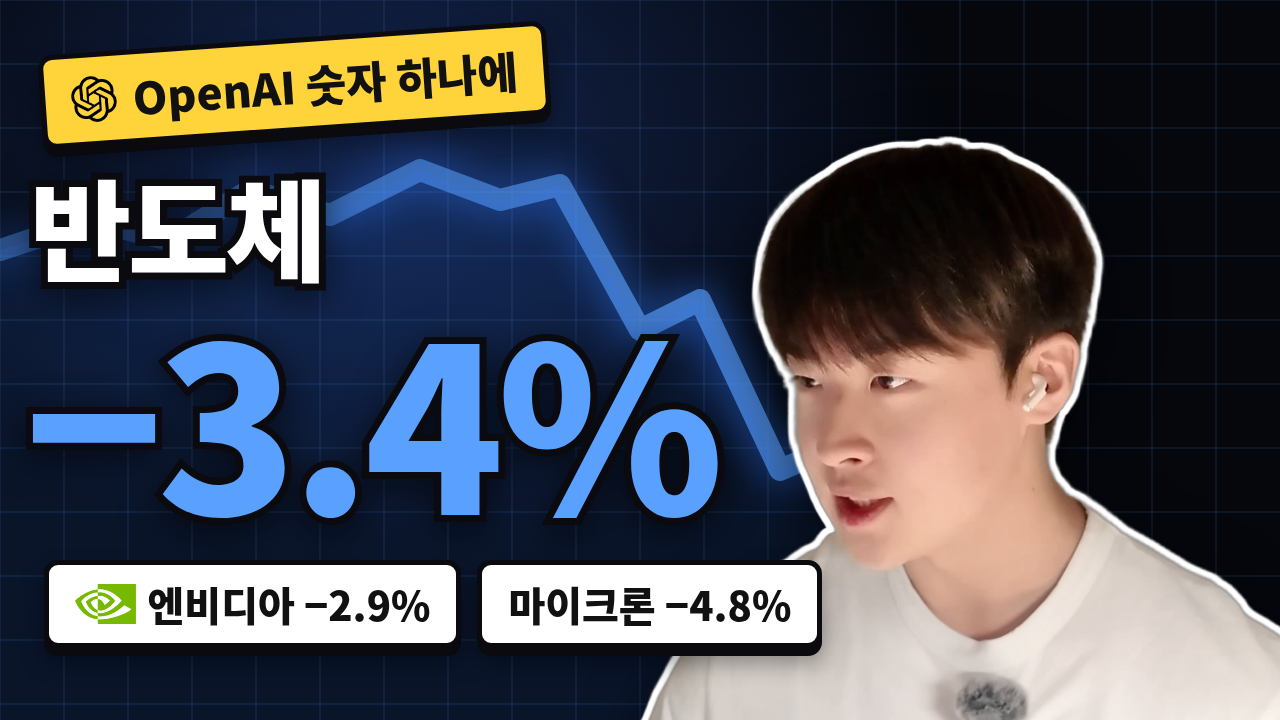
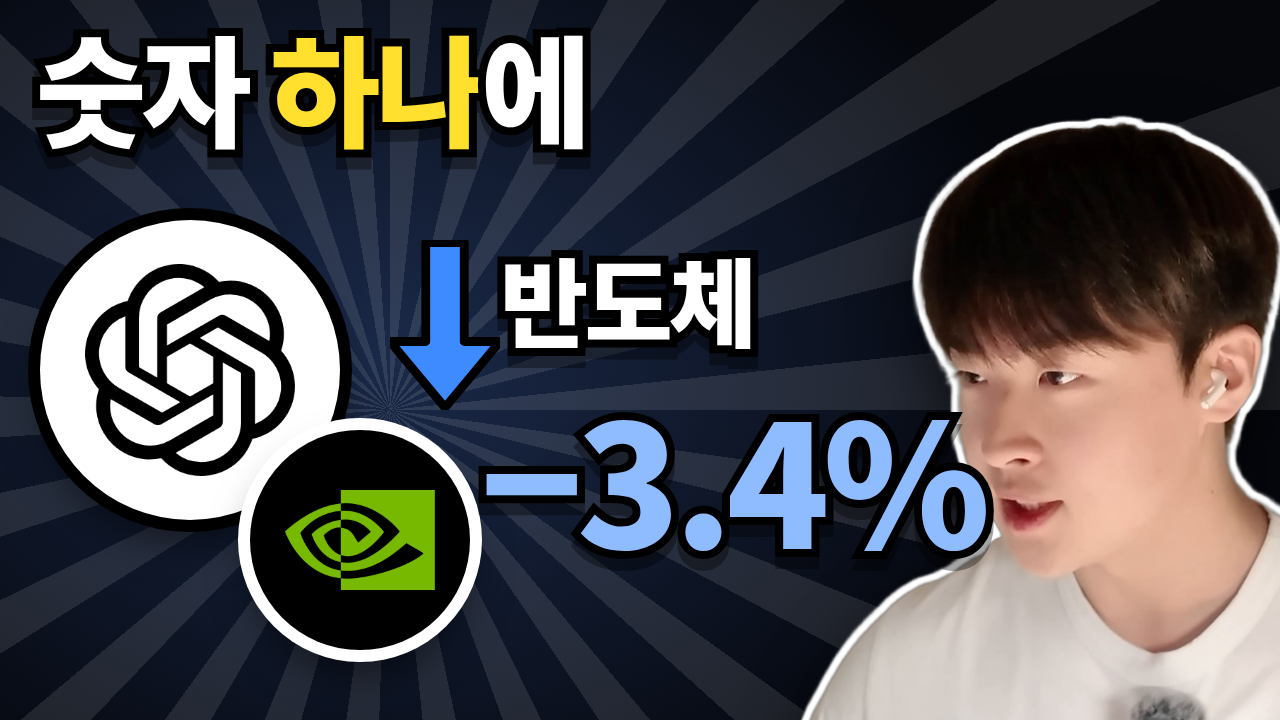
10/9 썸네일 v3: 집중선 · 원형 회사 로고 · 큰 노란 글씨 (경제 유튜버 썸네일 문법)
Claude-Session: https://claude.ai/code/session_01QHbYmFApHJm83EjnbH7XQa

diff --git a/youtube/1009/thumbnail/v3.html b/youtube/1009/thumbnail/v3.html
@@ -1,0 +1,56 @@
+<!doctype html>
+<meta charset="utf-8">
+<title>10/9 썸네일 v3</title>
+<!-- 유명 경제 유튜버 썸네일 문법: 집중선 배경 · 큰 원형 회사 로고 · 3~6자 굵은 노란 글씨 · 크게 확대한 얼굴 · 굵은 화살표.
+     render_v2.js 와 같은 방식으로 section.thumb 를 찍는다 (node render_v3.js). -->
+<style>
+:root{--sblue:#1428A0;--yel:#ffe02e;--red:#ff2e4d;--blue:#3d8bff;font-family:'Noto Sans CJK KR',sans-serif}
+*{box-sizing:border-box;margin:0}
+body{background:#000}
+.thumb{width:1280px;height:720px;position:relative;overflow:hidden;margin-bottom:10px}
+.burst{position:absolute;inset:-400px;background:repeating-conic-gradient(from 0deg at 50% 50%,rgba(255,255,255,.10) 0 6deg,rgba(255,255,255,0) 6deg 14deg)}
+.t{position:absolute;font-weight:900;line-height:1;letter-spacing:-.04em;color:#fff;
+   -webkit-text-stroke:16px #000;paint-order:stroke fill;filter:drop-shadow(0 12px 0 rgba(0,0,0,.35))}
+.y{color:var(--yel)}
+.person{position:absolute;filter:drop-shadow(6px 0 0 #fff) drop-shadow(-6px 0 0 #fff) drop-shadow(0 6px 0 #fff) drop-shadow(0 -6px 0 #fff) drop-shadow(0 24px 30px rgba(0,0,0,.6))}
+.coin{position:absolute;border-radius:50%;background:#fff;box-shadow:0 0 0 12px #000,0 24px 40px rgba(0,0,0,.55);display:flex;align-items:center;justify-content:center}
+.tag{position:absolute;font-weight:900;color:#000;background:#fff;border:6px solid #000;border-radius:16px;padding:6px 22px;box-shadow:0 8px 0 #000}
+</style>
+
+<!-- A: 삼성 -->
+<section class="thumb" id="A" style="background:radial-gradient(900px 700px at 30% 50%,#2a49d6,#0a1660 75%)">
+  <div class="burst" style="left:-900px;top:-300px"></div>
+  <img class="person" src="person_A.png" style="right:-270px;bottom:-60px;height:680px">
+  <div class="t" style="left:36px;top:26px;font-size:136px"><span class="y">107조</span> 벌고</div>
+  <!-- 삼성 타원 로고 (파란 기울어진 타원 + 흰 SAMSUNG) -->
+  <div class="coin" style="left:40px;top:250px;width:390px;height:390px">
+    <svg width="360" height="360" viewBox="0 0 400 400" style="position:absolute">
+      <ellipse cx="200" cy="200" rx="188" ry="92" transform="rotate(-14 200 200)" fill="#1428A0"/>
+    </svg>
+    <img src="../../logos/samsung_white.png" style="position:relative;width:262px">
+  </div>
+  <svg style="position:absolute;left:300px;top:440px" width="180" height="290" viewBox="0 0 260 380">
+    <path d="M85 0h90v230h85L130 380 0 230h85z" fill="#3d8bff" stroke="#000" stroke-width="14" stroke-linejoin="round"/>
+  </svg>
+  <div class="t" style="left:510px;top:400px;font-size:84px">주가</div>
+  <div class="t" style="left:500px;top:500px;font-size:150px;color:#8fbcff">−2.4%</div>
+  <div class="tag" style="left:470px;top:226px;font-size:44px;transform:rotate(-5deg);background:var(--yel)">사상 최대인데 왜?</div>
+</section>
+
+<!-- B: OpenAI · 엔비디아 -->
+<section class="thumb" id="B" style="background:radial-gradient(900px 700px at 30% 50%,#1b2a4a,#05070d 75%)">
+  <div class="burst" style="left:-900px;top:-300px"></div>
+  <img class="person" src="person_B.png" style="right:-280px;bottom:-60px;height:660px">
+  <div class="t" style="left:36px;top:26px;font-size:120px">숫자 <span class="y">하나</span>에</div>
+  <div class="coin" style="left:40px;top:220px;width:300px;height:300px">
+    <img src="../../logos/openai.png" style="width:210px;filter:brightness(0)">
+  </div>
+  <div class="coin" style="left:250px;top:430px;width:220px;height:220px;background:#000;box-shadow:0 0 0 12px #fff,0 24px 40px rgba(0,0,0,.55)">
+    <img src="../../logos/nvidia.png" style="width:150px">
+  </div>
+  <div class="t" style="left:500px;top:250px;font-size:96px">반도체</div>
+  <div class="t" style="left:480px;top:390px;font-size:170px;color:#8fbcff">−3.4%</div>
+  <svg style="position:absolute;left:390px;top:240px" width="110" height="170" viewBox="0 0 200 300">
+    <path d="M65 0h70v180h65L100 300 0 180h65z" fill="#3d8bff" stroke="#000" stroke-width="16" stroke-linejoin="round"/>
+  </svg>
+</section>

diff --git a/youtube/1009/thumbnail/render_v3.js b/youtube/1009/thumbnail/render_v3.js
@@ -1,0 +1,7 @@
+// v3.html 의 section.thumb 를 thumbnail_<id>.png (1280×720) 로 찍는다
+const path=require('path');const {chromium}=require('playwright');
+(async()=>{const b=await chromium.launch();const p=await b.newPage({viewport:{width:1280,height:720}});
+await p.goto('file://'+path.join(__dirname,'v3.html'));await p.evaluate(()=>document.fonts.ready);
+for(const id of await p.$$eval('section.thumb',e=>e.map(x=>x.id))){
+  await p.locator('#'+id).screenshot({path:path.join(__dirname,`thumbnail_${id}.png`)});console.log(`thumbnail_${id}.png`)}
+await b.close()})();
